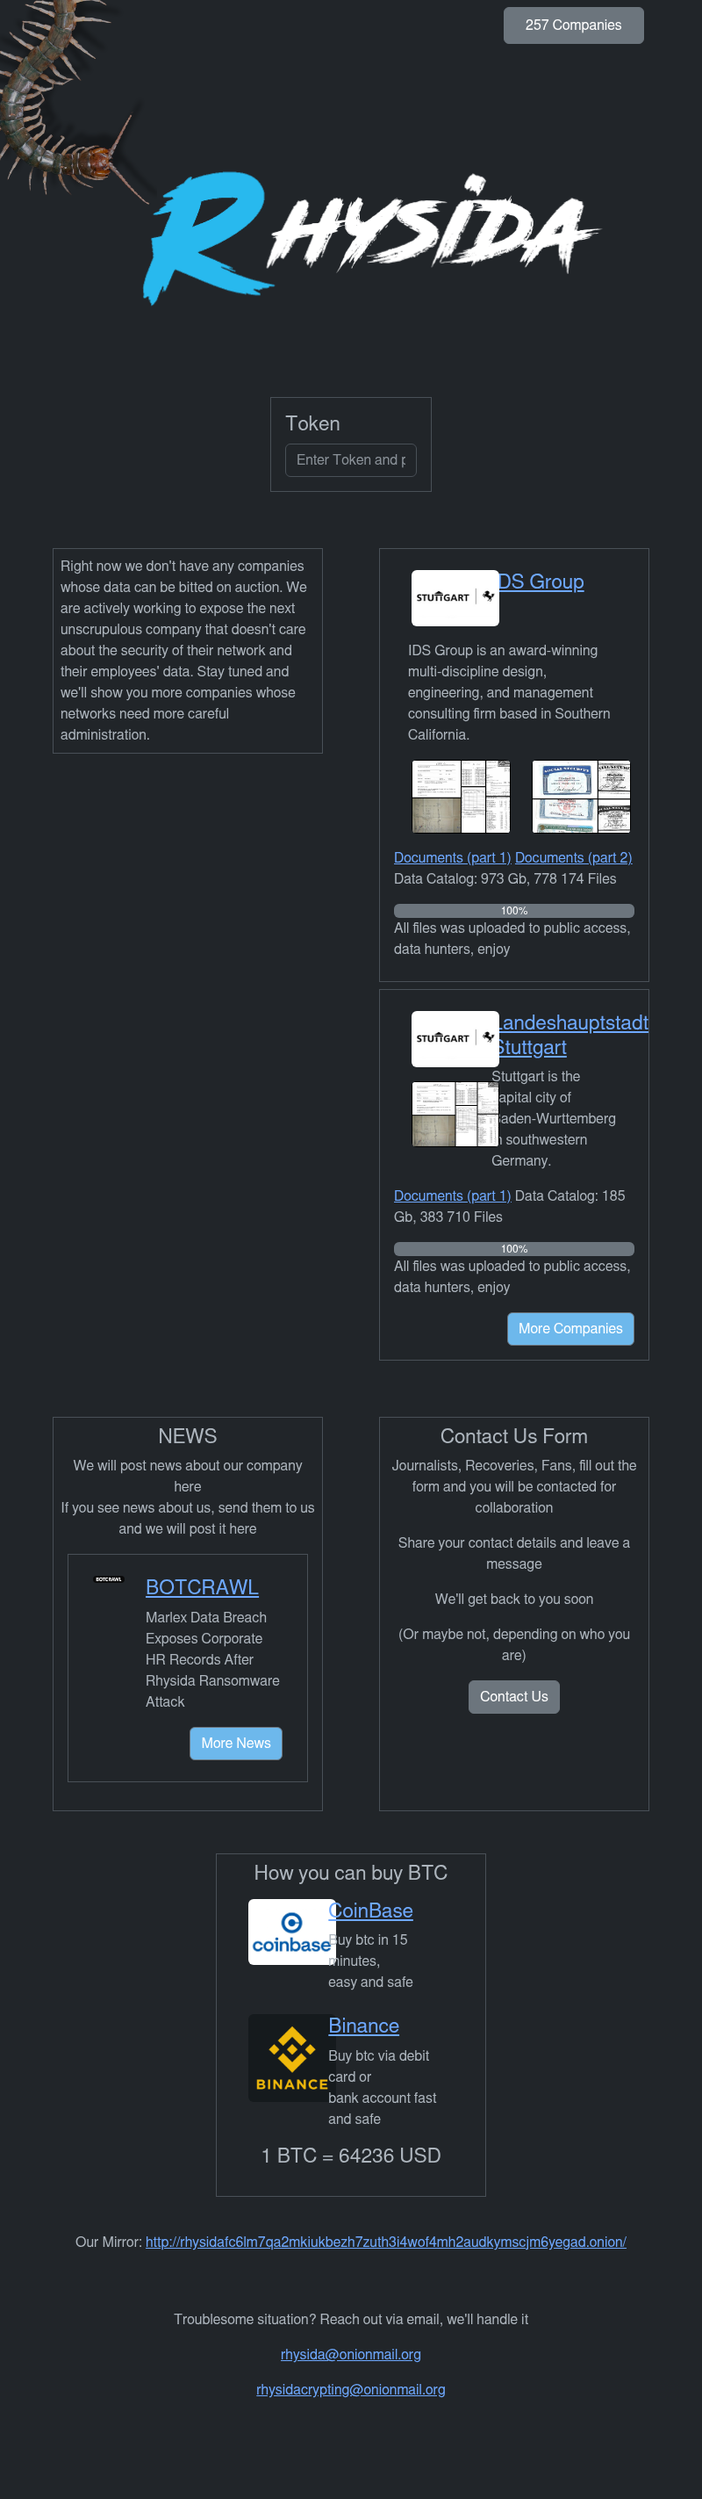
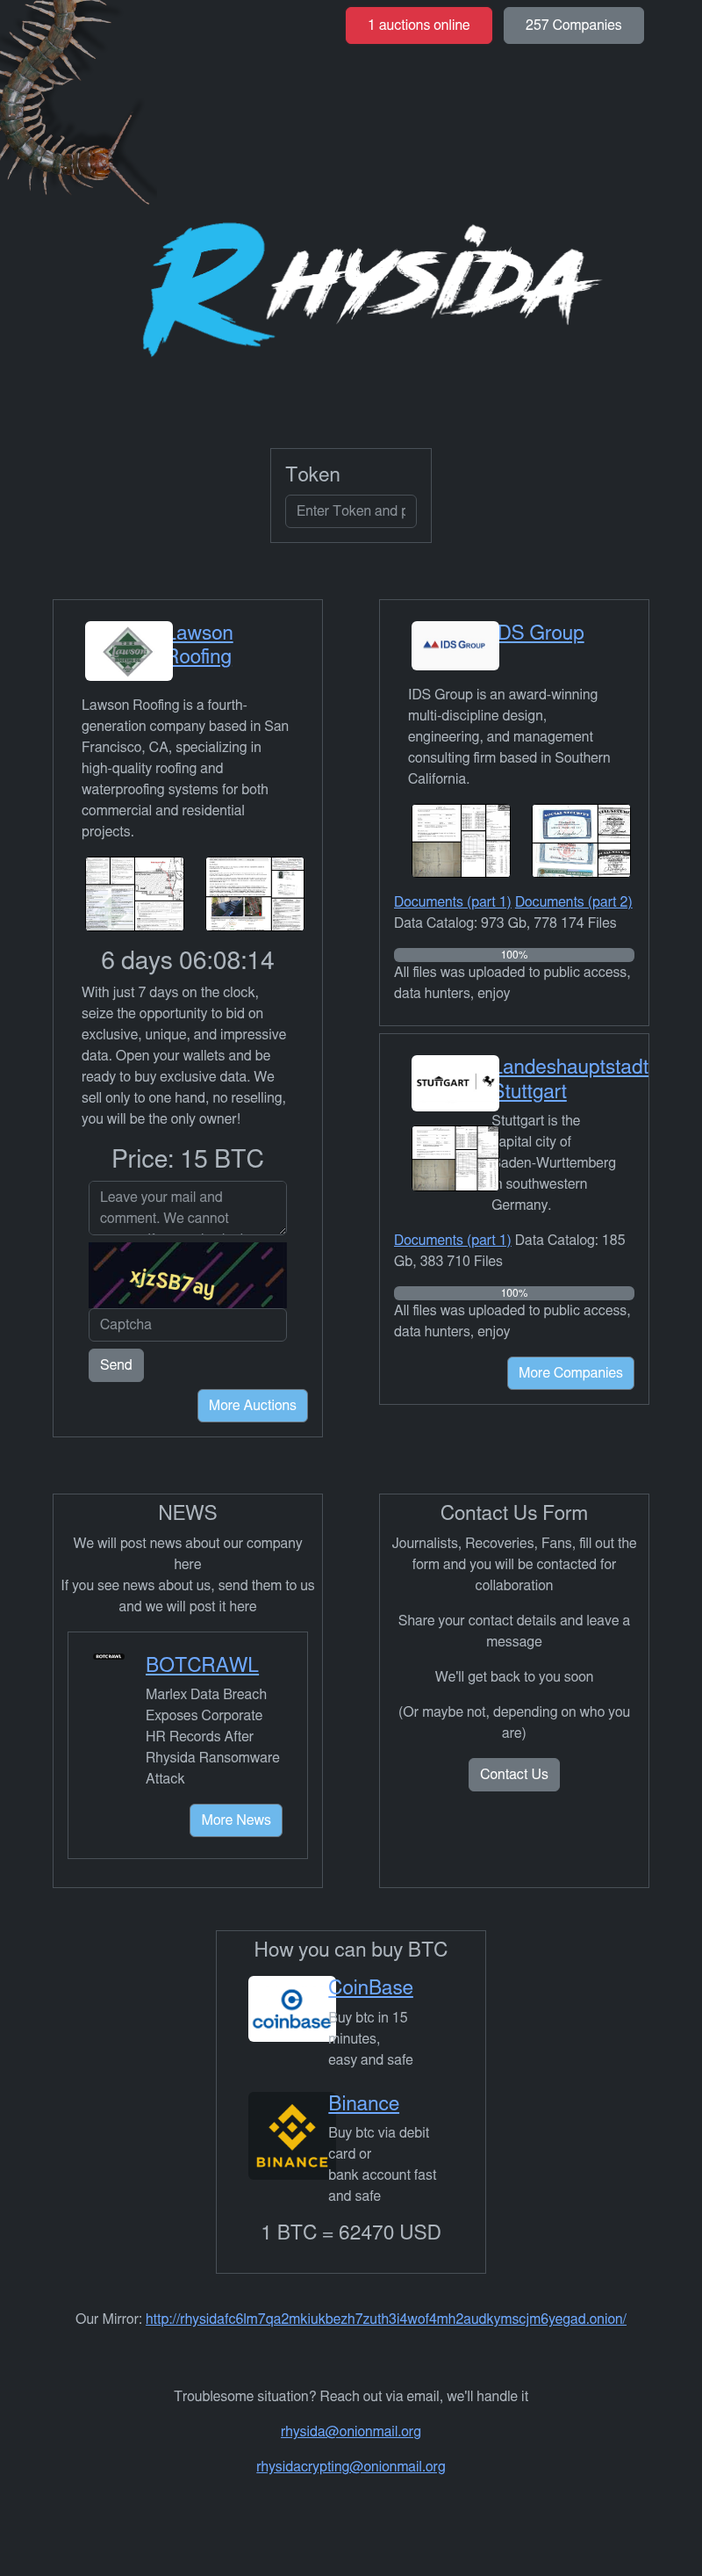
deploy: 4437f00f07ef708a39310c008595b9bcf039456d

diff --git a/rhysida-rhysidafc6lm7qa2mkiukbezh7zuth3i4wof4mh2audkymscjm6yegad.onion.html b/rhysida-rhysidafc6lm7qa2mkiukbezh7zuth3i4wof4mh2audkymscjm6yegad.onion.html
@@ -77,7 +77,8 @@
 	</head>
 	<body>
 		<div class="container mb-5">
-						<p class="position-relative bg-secondary text-white py-2 px-4 rounded mt-2 border border-secondary" style="width: fit-content; left: 75%; cursor: pointer;" id="companies_online">257 Companies</p>
+						<p class="auctions position-relative bg-danger text-white py-2 px-4 rounded mt-2 border border-danger" style="width: fit-content; left: calc(75% - 180px); cursor: pointer;" id="auctions_online">1 auctions online</p>
+							<p class="position-relative bg-secondary text-white py-2 px-4 rounded mt-2 border border-secondary" style="width: fit-content; left: 75%; cursor: pointer; top: -58px;" id="companies_online">257 Companies</p>
 			<div class="w-100 mt-5">
 				<img src="./logos/logo.png" class="d-inline-block align-top rounded float-start w-100" alt="logo" />
 			</div>

diff --git a/index.html b/index.html
@@ -92,11 +92,6 @@
         <div class="caption"><b>rhysida</b>: rhysidafc6lm7qa2mkiukbezh7zuth3i4wof4mh2audkymscjm6yegad.onion</div>
       </div>
     
-      <div class="image-container">
-        <img src="slug-threeamkelxicjsaf2czjyz2lc4q3ngqkxhhlexyfcp2o6raw4rphyad.onion.png" alt="slug-threeamkelxicjsaf2czjyz2lc4q3ngqkxhhlexyfcp2o6raw4rphyad.onion.png" class="image">
-        <div class="caption"><b>slug</b>: threeamkelxicjsaf2czjyz2lc4q3ngqkxhhlexyfcp2o6raw4rphyad.onion</div>
-      </div>
-    
       </div>
       <div class="image-fullscreen" id="fullscreenModal">
         <img src="" alt="Fullscreen Image" id="fullscreenImage">
